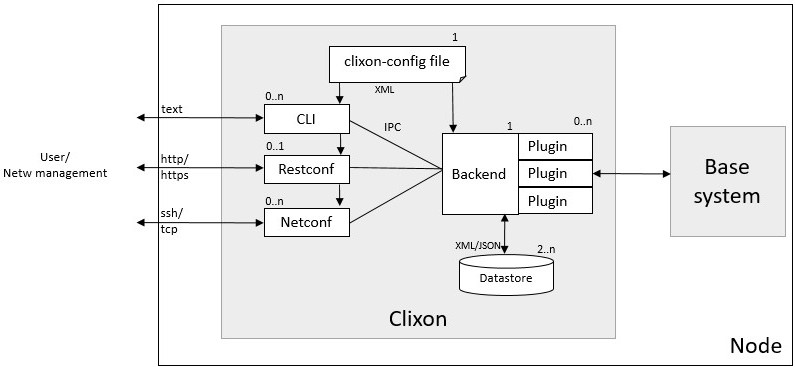
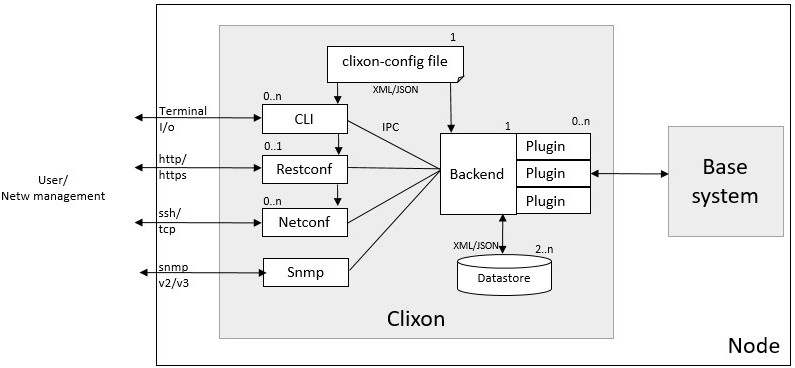
New SNMP frontend

diff --git a/snmp.rst b/snmp.rst
@@ -1,45 +1,50 @@
 .. _snmp:
 .. sectnum::
-   :start: 19
+   :start: 12
    :depth: 3
 
 **********
 SNMP
 **********
 
-As a complement to HTTP/HTTPS/SSH Clixon supports SNMP for retreiving
-and setting values. SNMP support was introduced in Clixon version
-XX.YY and supports registration of OIDs through YANG specifications.
+Clixon supports SNMP for retreiving and setting values via netsnmp
+using a MIB-YANG mapping defined in RFC6643.
 
 Architecture
 ============
-.. image:: snmp.png
+.. image:: snmp.jpg
    :width: 100%
 
-See the :ref:`overview page <clixon_overview>` for a description of
-the overall Clixon architecture.
+The SNMP frontend acts as an intermediate between the Net-SNMP
+daemon (snmpd) and the Clixon backend. It communicates over the AgentX
+protocol to snmpd typically via a UNIX socket, and over the internal IPC protocol to the Clixon
+backend.
 
-The SNMP application plugs in to Clixon in the same way as the other
-ones, the exception here is that it also will communicate with the
-Net-SNMP daemon snmpd through either a Unix socket or TCP socket and
-the user can then communicate with snmpd using any of the existing
-SNMP capable tools that are available.
+Clixon-snmp implements RFC 6643 `Translation of Structure of Management
+Information Version 2 (SMIv2) MIB Modules to YANG Modules`. The RFCdescribes how a MIB
+is translated to a YANG file using extensions defining a mapping
+to object IDs and types in the MIB.
+
+In principle, it is also possible to construct a MIB from YANG using
+the same method, although this is more limited and may involve some manual work.
+
+A user can then communicate with snmpd using any of the SNMP
+v2/v3 tools, such as `snmpget`, `snmpwalk` and others.
+
+.. note::
+        SNMP support is introduced in Clixon version 5.8
 
 Configuration
 =============
 
 Net-SNMP
 --------
-Note: The lowest known version of Net-SNMP known to be working with Clixon is
-5.9.
+.. note::
+   Use Net-SNMP version 5.9 or later
 
-To set up the communication between Clixon SNMP and Net-SNMP snmpd we
-must instruct snmpd to use a Unix socket or TCP socket for the
-communication. Net-SNMP uses the AgentX protocol (described in
-RFC-2741) for the communication and a minimal snmpd.conf which is
-known to be working can be seen below:
-
-::
+To set up AgentX communication between ``clixon_snmp`` and ``snmpd`` a
+Unix or TCP socket is configured. This socket is also configured in
+Clixon (see below). An example `snmpd.conf` is as follows::
 
    master       agentx
    agentaddress 127.0.0.1,[::1]
@@ -47,44 +52,28 @@ known to be working can be seen below:
    agentXSocket unix:/var/run/snmp.sock
    agentxperms  777 777
 
-We should also instruct Net-SNMP to use the MIBs we are interested
-in. To load _all_ MIBs we can modify the file ``/etc/snmp/snmp.conf``
-and comment the line starting with "mibs :", a minimal "snmp.conf" and
-also make sure that "mibdirs" includes any directory where we might
-store MIBs to be used:
-
-::
-
-   #mibs :
-   mibdirs /usr/share/snmp/mibs:/usr/share/snmp/mibs/iana:/usr/share/snmp/mibs/ietf
-
-We also want to tell snmpd to not load any of the modules we are implementing
-using Clixon. For example, if we are using Clixon to implement IF-MIB and the
-system MIB we want to tell snmpd to not load them and let us take care of that.
-
-This can be done using the "-I" flag and prepend a "-" before each of the objects:
-
-::
+It is necessary to ensure snmpd does `not` to load modules
+implemented by Clixon. For example, if Clixon implements IF-MIB and
+system MIBs, snmpd should not load those modules. This can be done
+using the "-I" flag and prepending a "-" before each module::
    
    -I -ifTable -I -system_mib -I -sysORTable
 
-Note: Clixon will not take care of starting snmpd, the system must at
-all times make sure that snmpd is running and can communicate with
-Clixon SNMP and the user.
+Further, Clixon itself does not start netsnmp itself, you need to ensure that
+netsnmp is running when clixon_snmp is restarted. Likewise, if snmpd
+is restarted, clixon_snmp must also be restarted.
+
+.. note::
+     Net-snmp must be started via systemd or some other external mechanism before clixon_snmp is started.
 
 Clixon
 ------
+To build the snmp support, netsnmp is enabled at configure time.  Two configure  options are added for SNMP:
 
-The enable SNMP support in Clixon and build the "clixon_snmp"
-application (the source code resides in "apps/snmp/") we must
-enable SNMP support then running configure. Two new flags have
-been added:
+* ``--enable-netsnmp`` Enable SNMP support.
+* ``--with-mib-generated-yang-dir`` For tests: Directory of generated YANG specs (default: $prefix/share/mibyang)
 
-* --enable-netsnmp Enable SNMP support.
-* --with-mib-generated-yang-dir Directory of generated YANG specs (default: $prefix/share/mibyang)
-
-Then typing "make" the "clixon_snmp" executable will be build and
-"make install" will install it as usual.
+Then type "make" to build the "clixon_snmp" executable and "make install" to install.
 
 
 clixon_snmp command line options
@@ -98,47 +87,83 @@ clixon_snmp command line options
 	-D <level>	Debug level
 	-f <file>	Configuration file (mandatory)
 	-l (e|o|s|f<file>) Log on std(e)rr, std(o)ut, (s)yslog(default), (f)ile
+        -z              Kill other clixon_snmp daemon and exit
 	-o "<option>=<value>"	Give configuration option overriding config file (see clixon-config.yang)
 
 
 clixon_snmp configuration
 -------------------------
-Clixon configuration have also been extended with two new attributes:
+There are two SNMP related options in the Clixon configuration:
 
-* ``<CLICON_SNMP_AGENT_SOCK>...</CLICON_SNMP_AGENT_SOCK>`` which will let Clixon know how to communicate directly to "snmpd" over AgentX.
-* ``<CLICON_SNMP_MIB>NET-SNMP-EXAMPLES-MIB</CLICON_SNMP_MIB>`` tell which MIBs to use.
+CLICON_SNMP_AGENT_SOCK
+   String description of AgentX socket that clixon_snmp listens to.
 
-Example:
+CLICON_SNMP_MIB
+   Names of MIBs that are used by clixon_snmp. 
 
-::
+Example::
 
    <CLICON_SNMP_AGENT_SOCK>unix:/var/run/snmp.sock</CLICON_SNMP_AGENT_SOCK>
    <CLICON_SNMP_MIB>NET-SNMP-EXAMPLES-MIB</CLICON_SNMP_MIB>
 
-Note that the socket ``/var/run/snmp.sock`` is the same as we configured
+Note that the socket ``/var/run/snmp.sock`` is the same as configured
 in "snmpd.conf" above.
 
-MIB registration
-================
+MIB mapping
+===========
+Clixon registers MIBs with netsnmp by using YANG specifications. To achieve this
+the MIB is first converted (according to RFC6643) to YANG format.
 
-Note: smidump 0.5 is the lowest known version of smidump which can be used to produce proper YANG 
-specifications.
+Generating YANG
+---------------
+MIB to YANG conversion can be done using the ``smidump`` tool. Manual
+mapping is also possible.  In Debian smidump is available in the
+package "smitools".
 
-Clixon will register MIBs using YANG specifications. To achive this
-the MIB must first be converted to YANG format using for example the
-tool smidump.
-
-In Debian smidump is available in the package "smitools".
-
-To convert a MIB to YANG format we can invoke smidump with the "-f
-yang" flag and point it to a MIB. MIBs will usually live under the
-directory "/usr/share/snmp/mibs/":
-
-::
+To convert a MIB to YANG format smidump is invoked with the "-f
+yang" flag and point it to a MIB. MIBs will usually be in the directory "/usr/share/snmp/mibs/"::
 
    $ smidump -f yang /usr/share/snmp/mibs/NET-SNMP-EXAMPLES-MIB.txt > NET-SNMP-EXAMPLES.yang
 
-Once we have converted the MIB we are interested in using together
-with Clixon we should tell Clixon where to find it using the normal
-``<CLICON_YANG_DIR>...</CLICON_YANG_DIR>`` attribute in the
-configuation.
+.. note::
+   smidump 0.5 or later must be used
+   
+Once a MIB is converted to YANG, two things are done:
+
+1) The YANG is registered as an SNMP module using the `CLICON_SNMP_MIB` configuration option
+2) The YANG file must be found via the regular Clixon YANG finding mechanism, as described in :ref:`Finding YANG files <clixon_configuration>`
+
+Config vs state
+---------------
+By default, all RFC6643 mappings are `config false`, ie, no configuration data.
+
+To make a YANG `config true`, a deviation statement is made as the following example illustrates::
+
+    deviation "/clixon-types:CLIXON-TYPES-MIB" {
+     deviate replace {
+        config true;
+     }
+  }
+
+For more info, see Section 11 in RFC 6643.
+
+Types
+-----
+Scalar types are mapped between SMI and YANG types using RFC6643. All
+types as used by IF-MIB, System and Entity MIBs are supported.
+
+Tables
+------
+SNMP tables are supported for config and state and are mapped to YANG
+lists. It is possible to get and set individual values either via the
+SNMP API, or via any of the other CLIXON frontends.
+
+Table indexes can be integers and non-integers.  Multiple table indexes are supported.
+
+There is one restriction for writing table (dynamic) data: New columns
+or rows cannot be entered via the SNMP API. However, rows/tables can
+be added via the CLIXON frontend.
+
+As an implementation detail, Clixon uses the `table` abstraction in
+the netsnmp agent library, not `table-data` or `table-instance`. 
+

diff --git a/overview.rst b/overview.rst
@@ -48,8 +48,7 @@ Plugin integration
 This describes how to integrate a base system with Clixon using plugins.
 
 The Clixon architecture consists of a backend daemon with
-configuration datastores and a set of internal clients: cli, restconf
-and netconf.
+configuration datastores and a set of internal clients: cli, restconf, netconf and snmp.
 
 The clients provide frontend interfaces to users of the system, such
 as a Network Management System (NMS) or an interactive human user. The

diff --git a/standards.rst b/standards.rst
@@ -150,6 +150,10 @@ In the native mode, Clixon also supports:
 * Transport Layer Security (TLS) implemented by libopenssl,
 * ALPN as defined in RFC 7301 for http/1, http/2 protocol selection by libopenssl
 
+SNMP
+====
+The Clixon-SNMP frontend implements the MIB-YANG mapping as defined in RFC 6643.
+
 XML and XPath
 =============
 Clixon has its own implementation of XML and XPath. See more in the detailed API reference.

diff --git a/index.rst b/index.rst
@@ -25,6 +25,7 @@ mechanism.
    cli
    netconf
    restconf
+   snmp
    yang
    usecases
    client
@@ -32,4 +33,4 @@ mechanism.
    pagination
    upgrade
    misc
-   snmp
+

diff --git a/pagination.rst b/pagination.rst
@@ -1,6 +1,6 @@
 .. _clixon_pagination:
 .. sectnum::
-   :start: 16
+   :start: 17
    :depth: 3
 
 **********

diff --git a/usecases.rst b/usecases.rst
@@ -1,6 +1,6 @@
 .. _clixon_usecases:
 .. sectnum::
-   :start: 13
+   :start: 14
    :depth: 3
 
 ********

diff --git a/xml.rst b/xml.rst
@@ -1,6 +1,6 @@
 .. _clixon_xml:
 .. sectnum::
-   :start: 15
+   :start: 16
    :depth: 3
 
 *************

diff --git a/upgrade.rst b/upgrade.rst
@@ -1,6 +1,6 @@
 .. _clixon_upgrade:
 .. sectnum::
-   :start: 17
+   :start: 18
    :depth: 3
 
 *******

diff --git a/client.rst b/client.rst
@@ -1,6 +1,6 @@
 .. _client_api:
 .. sectnum::
-   :start: 14
+   :start: 15
    :depth: 3
 
 **********

diff --git a/misc.rst b/misc.rst
@@ -1,6 +1,6 @@
 .. _clixon_misc:
 .. sectnum::
-   :start: 18
+   :start: 19
    :depth: 3
 
 ****

diff --git a/yang.rst b/yang.rst
@@ -1,6 +1,6 @@
 .. _clixon_yang:
 .. sectnum::
-   :start: 12
+   :start: 13
    :depth: 3
 
 ****
